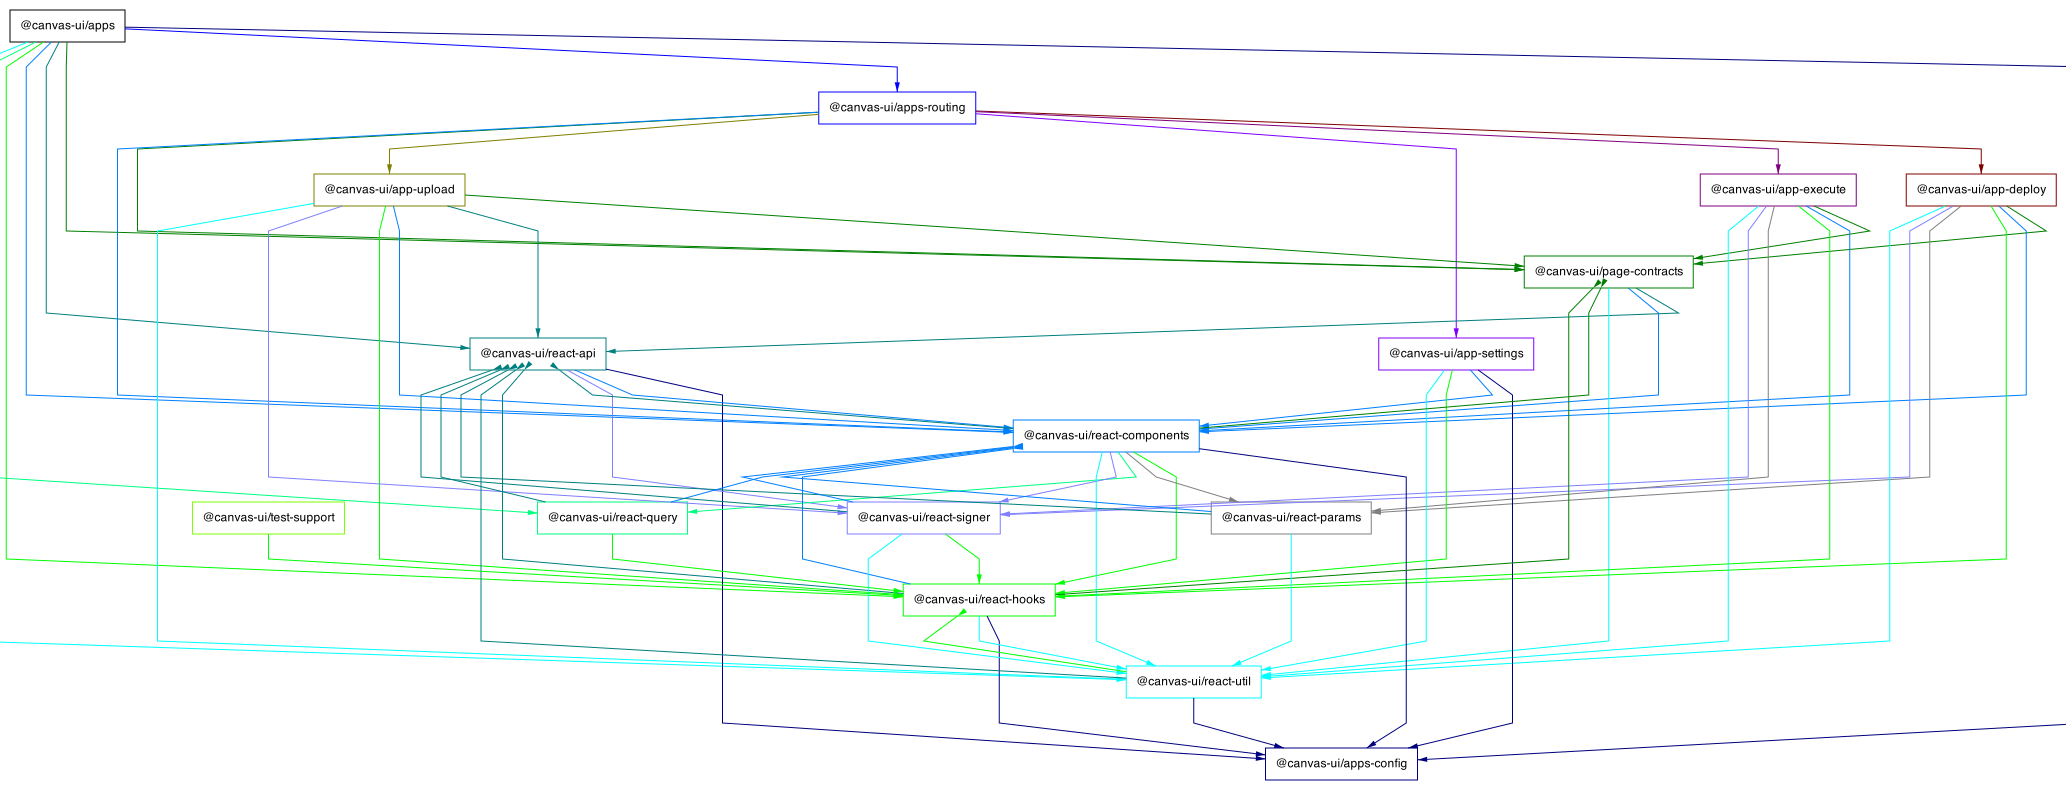
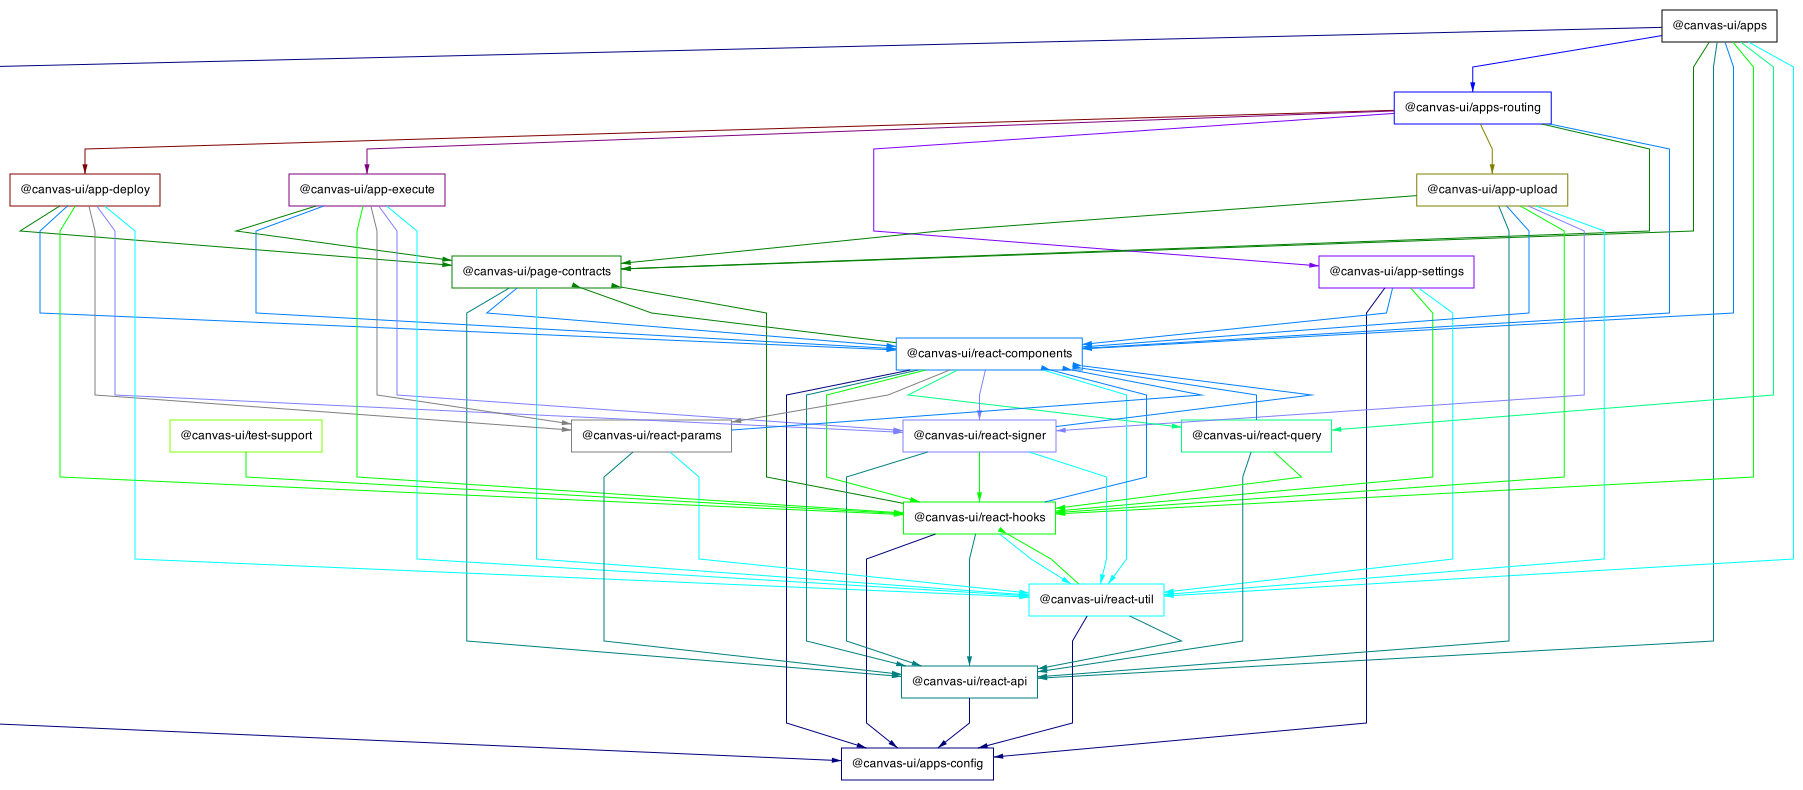
Update package-dep-graph, moved ConstructTxFn down

diff --git a/packages/react-components/src/types.ts b/packages/react-components/src/types.ts
@@ -4,6 +4,7 @@
 import type { StringOrNull } from '@canvas-ui/react-util/types';
 import type { Icon as IconType, IconName } from '@fortawesome/fontawesome-svg-core';
 import type { SubmittableExtrinsic } from '@polkadot/api/types';
+import type { ConstructTxFn } from '@canvas-ui/react-hooks/types';
 
 import { TxState } from '@canvas-ui/react-hooks/types';
 import { WithTranslation } from 'react-i18next';
@@ -23,8 +24,6 @@ export interface BareProps {
 }
 
 export type I18nProps = BareProps & WithTranslation;
-
-export type ConstructTxFn = () => any[];
 
 export type TxTrigger = React.ComponentType<TxTriggerProps>;
 

diff --git a/packages/react-hooks/src/types.ts b/packages/react-hooks/src/types.ts
@@ -1,7 +1,6 @@
 // Copyright 2017-2021 @canvas-ui/react-components authors & contributors
 // SPDX-License-Identifier: Apache-2.0
 
-import { ConstructTxFn } from '@canvas-ui/react-components/types';
 import { StringOrNull, VoidFn } from '@canvas-ui/react-util/types';
 import BN from 'bn.js';
 
@@ -28,6 +27,8 @@ export type TxDef = [string, any[] | ConstructTxFn];
 export type TxDefs = SubmittableExtrinsic | IExtrinsic | Call | TxDef | null;
 
 export type TxSource<T extends TxDefs> = [T, boolean];
+
+export type ConstructTxFn = () => any[];
 
 export interface ModalState {
   isOpen: boolean;
